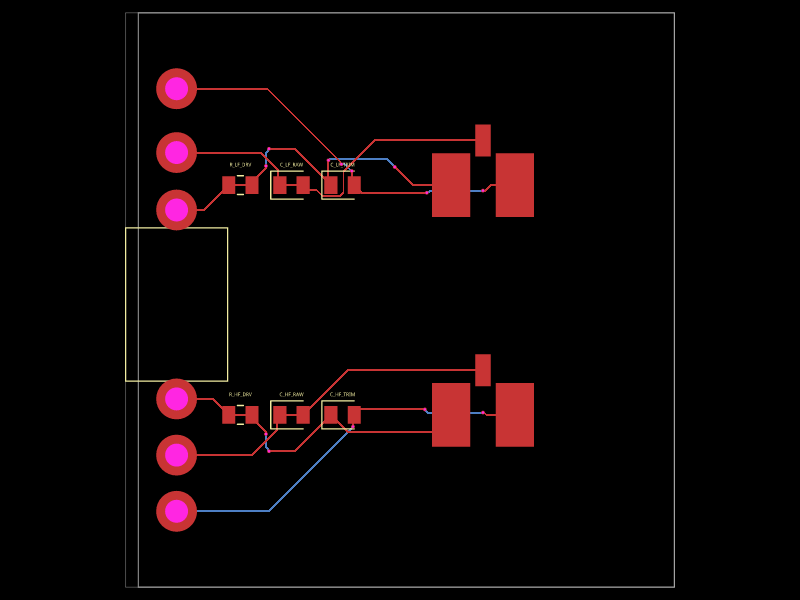
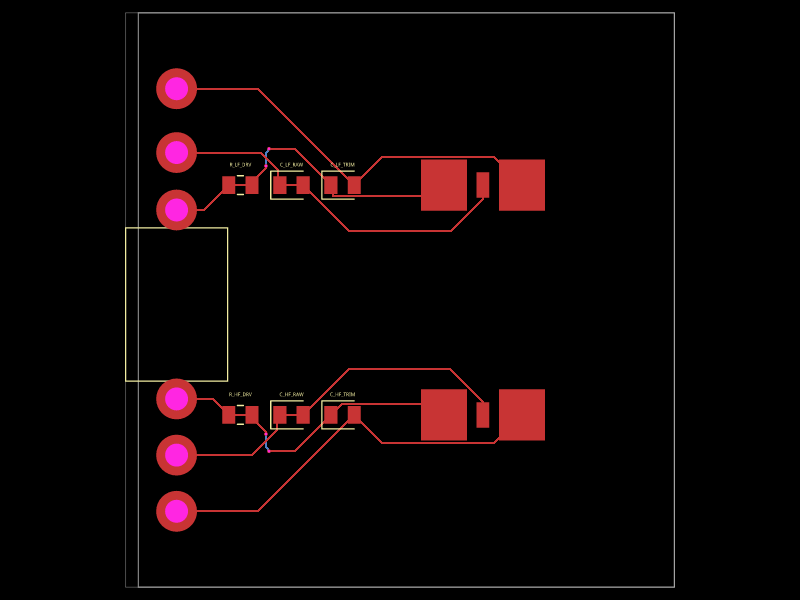
Use real ICX301PT-F datasheet dims (6.1mm blade pitch, centred RAW pin); add render script + datasheet refs

diff --git a/adapter/icx301.tsx b/adapter/icx301.tsx
@@ -17,21 +17,30 @@
  */
 
 // ── Mechanical constants ──────────────────────────────────────────────────
-// TODO: confirm from ICX301PT-FGY datasheet — every number here is a guess.
-const POWER_PAD_W = 3.0; // mm, power blade land width                    TODO
-const POWER_PAD_H = 5.0; // mm, extended for hand-soldering               TODO
-const SIGNAL_PAD_W = 1.2; // mm, signal pin land width                    TODO
-const SIGNAL_PAD_H = 2.5; // mm, extended for hand-soldering              TODO
-const POWER_PITCH = 5.0; // mm, centre-to-centre between the two blades   TODO
-const SIGNAL_OFFSET_Y = 3.5; // mm, signal pin offset from blade row      TODO
-const COURTYARD_W = 12.5; // mm, body outline width                       TODO
-const COURTYARD_H = 6.0; // mm, body outline height                       TODO
+// From AMASS_ICX301PT_SPEC.pdf (ICX301PT-F, page 2), cross-checked against the
+// PM5 drawing (proxmark3/doc/img/pm5/icx301-and-10p-header.jpg): three in-line
+// contacts — two power blades with the small RAW signal pin centred between them.
+const POWER_PITCH = 6.1; // mm, blade-to-blade (±3.05 from centre)     [datasheet]
+const PAD_SPAN = 9.7; // mm, outer edge-to-edge across the power pads  [datasheet]
+const BODY_W = 11.1; // mm, connector body width                       [datasheet]
+const BODY_D = 4.9; // mm, connector body depth (female)               [datasheet]
+// Land sizes: span-minus-pitch gives the power land width; exact SMT land L×W and
+// the signal land are not dimensioned in the V1.0 spec — estimated, hand-solder
+// friendly (extended in Y).  TODO: confirm SMT land sizes.
+const POWER_PAD_W = PAD_SPAN - POWER_PITCH; // = 3.6 mm power land width
+const POWER_PAD_H = 4.0; // mm, land length (extended for iron access)    TODO
+const SIGNAL_PAD_W = 1.0; // mm, centre RAW signal land                   TODO
+const SIGNAL_PAD_H = 2.0; // mm                                           TODO
+const COURTYARD_W = BODY_W; // body outline
+const COURTYARD_H = BODY_D + 1.0; // depth + small margin
 
-// Pin numbering on the physical part.
-// TODO: confirm which physical blade is PWR vs GND from the drawing.
+// Pin numbering. The two blades are physically identical; which one is GND vs
+// DRV depends on band (LF: GND|RAW|DRV, HF: DRV|RAW|GND — mirror). We expose
+// generic PWR/RAW/GND ports and wire function-to-function; the HF connector is
+// placed mirrored in adapter.tsx.  TODO: set pcbRotation so pads match the PM5.
 const PIN_PWR = "1"; // power blade -> DRV/PWR
 const PIN_GND = "2"; // power blade -> GND
-const PIN_RAW = "3"; // small signal pin -> RAW
+const PIN_RAW = "3"; // small centre signal pin -> RAW
 
 /**
  * ICX301PT-FGY connector.
@@ -83,11 +92,11 @@ export const Icx301 = (props: {
 					height={POWER_PAD_H}
 					shape="rect"
 				/>
-				{/* Small signal pin (RAW) */}
+				{/* Small signal pin (RAW) — centred between the two blades */}
 				<smtpad
 					portHints={[PIN_RAW]}
 					pcbX={0}
-					pcbY={SIGNAL_OFFSET_Y}
+					pcbY={0}
 					width={SIGNAL_PAD_W}
 					height={SIGNAL_PAD_H}
 					shape="rect"

diff --git a/adapter/adapter.tsx b/adapter/adapter.tsx
@@ -37,6 +37,10 @@ const RDV4_X = -(BOARD_W / 2) + 3; // mm, RDV4 column ~3 mm from left edge  TODO
 const CONN_X = 6; // mm, PM5-side ICX301 connectors (inboard)  TODO
 const LF_Y = 9; // mm, LF connector Y (aligns w/ upper RDV4 trio)  TODO
 const HF_Y = -9; // mm, HF connector Y (aligns w/ lower RDV4 trio)  TODO
+// PM5 mating geometry (proxmark3/doc/img/pm5/icx301-and-10p-header.jpg): the two
+// ICX301 connectors are SIDE-BY-SIDE, LF-DRV↔HF-DRV = 16 mm → centre pitch
+// 16 + 6.1 = ~22.1 mm. To plug into the PM5 both connectors must sit at that
+// pitch and orientation. TODO: real mating layout replaces the stub stack below.
 
 // Single RDV4 interface component; refdes reused by every band's traces.
 const RDV4 = "RDV4";

diff --git a/README.md b/README.md
@@ -124,6 +124,15 @@ The PM5 uses ICX301 connectors:
 The PM5 board carries the **male** connector — it has the actual center pins —
 and the antenna carries the **female** connector that those pins mate into.
 
+**Datasheet / drawing (in the proxmark3 submodule):**
+- `proxmark3/doc/datasheets/AMASS_ICX301PT_SPEC.pdf` — ICX301PT-M/F dims:
+  body 11.10 mm wide, blade pitch **6.10 mm**, pad span 9.70 mm, female depth
+  4.90 mm. 15 A / 500 V, brass gold-plated, PCB SMT. These are the numbers the
+  `adapter/icx301.tsx` footprint is built from.
+- `proxmark3/doc/img/pm5/icx301-and-10p-header.jpg` — official PM5 drawing that
+  confirms the pin order (LF `GND RAW DRV` / HF `DRV RAW GND`, RAW = the small
+  centre signal pin) and the inter-connector spacing (LF-DRV↔HF-DRV = 16 mm).
+
 #### Extra connector on the PM5 antenna
 
 Unlike the RDV4 antenna, the PM5 antenna also carries a **10-pin (2x5) 2.54 mm**
